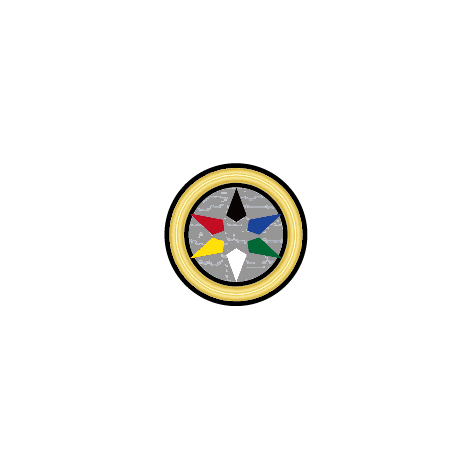
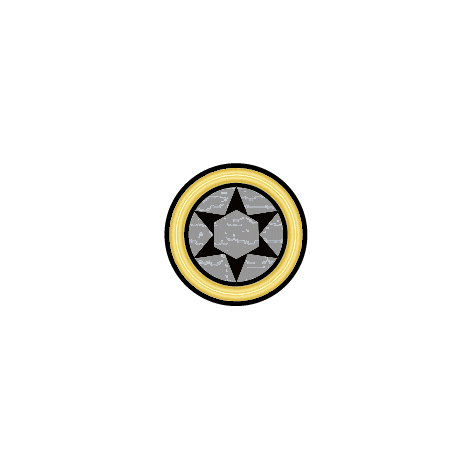
beta5 無色アイコンの修正 永続スペルアイコンの追加

Changed region(s): [[0.3864, 0.417, 0.5945, 0.5957]]

diff --git a/AsteriskTCGMaker2/AsteriskTCGMaker3/Views/MainWindow.xaml b/AsteriskTCGMaker2/AsteriskTCGMaker3/Views/MainWindow.xaml
@@ -151,7 +151,7 @@
                 <TextBlock x:Name="StatusText"  Text="{Binding StatusText, UpdateSourceTrigger=PropertyChanged}" />
             </StatusBarItem>
             <StatusBarItem DockPanel.Dock="Right">
-                <TextBlock Text="ver3.00β4" />
+                <TextBlock Text="ver3.00β5" />
             </StatusBarItem>
             <Separator DockPanel.Dock="Right" />
             <TextBlock />
@@ -211,11 +211,12 @@
                         </StackPanel>
 
 
-                        <StackPanel   Panel.ZIndex="15" Canvas.Left="17" Canvas.Bottom="135" Height="120" Width="30">
+                        <StackPanel   Panel.ZIndex="15" Canvas.Left="17" Canvas.Bottom="111" Height="144" Width="30">
                             <Image  x:Name="CardTypeImage1" Stretch="Fill" Source="Resources/burst.png"  Width="24" Margin="1,1,1,1" Visibility="{Binding SelectedCard.Burst, Converter={StaticResource BoolVisibillityConverter}}"/>
                             <Image  x:Name="CardTypeImage2" Stretch="Fill" Source="Resources/re-action.png"  Width="24" Margin="1,1,1,1" Visibility="{Binding SelectedCard.ReAction, Converter={StaticResource BoolVisibillityConverter}}"/>
                             <Image  x:Name="CardTypeImage3" Stretch="Fill" Source="Resources/sealedtrigger.png"  Width="24" Margin="1,1,1,1" Visibility="{Binding SelectedCard.SealedTrigger, Converter={StaticResource BoolVisibillityConverter}}"/>
                             <Image  x:Name="CardTypeImage4" Stretch="Fill" Source="Resources/spellstep.png"  Width="24" Margin="1,1,1,1" Visibility="{Binding SelectedCard.SpellStep, Converter={StaticResource BoolVisibillityConverter}}"/>
+                            <Image  x:Name="CardTypeImage5" Stretch="Fill" Source="Resources/keep.png"  Width="24" Margin="1,1,1,1" Visibility="{Binding SelectedCard.KeepSpell, Converter={StaticResource BoolVisibillityConverter}}"/>
                         </StackPanel>
 
                         <TextBox x:Name="CardRubyText" Text="{Binding SelectedCard.CardRuby}" Style="{StaticResource CardRubyTextStyle}"  Panel.ZIndex="100"
@@ -299,7 +300,7 @@
                         <RowDefinition Height="20"/>
                         <RowDefinition Height="20"/>
                         <RowDefinition Height="20"/>
-                        <RowDefinition Height="100"/>
+                        <RowDefinition Height="80"/>
                         <RowDefinition Height="20"/>
                         <RowDefinition Height="20"/>
                         <RowDefinition Height="40"/>
@@ -314,7 +315,7 @@
                         <RowDefinition Height="20"/>
                         <RowDefinition Height="20"/>
                         <RowDefinition Height="20"/>
-                        <RowDefinition Height="20"/>
+                        <RowDefinition Height="40"/>
                         <RowDefinition Height="20"/>
                         <RowDefinition Height="*"/>
                     </Grid.RowDefinitions>
@@ -455,6 +456,7 @@
                             <Grid.RowDefinitions>
                                 <RowDefinition/>
                                 <RowDefinition/>
+                                <RowDefinition/>
                             </Grid.RowDefinitions>
                             <Grid.ColumnDefinitions>
                                 <ColumnDefinition/>
@@ -464,6 +466,7 @@
                             <CheckBox x:Name="reAction"  Content="リアクション"  Grid.Row="0" Grid.Column="1" IsChecked="{Binding  SelectedCard.ReAction}"/>
                             <CheckBox x:Name="sealdtrigger"  Content="ダメージトリガー"  Grid.Row="1" Grid.Column="0"  IsChecked="{Binding  SelectedCard.SealedTrigger}"/>
                             <CheckBox  x:Name="spellstep" Content="スペルステップ"  Grid.Row="1" Grid.Column="1" IsChecked="{Binding  SelectedCard.SpellStep}"/>
+                            <CheckBox  x:Name="keepspell" Content="永続スペル"  Grid.Row="2" Grid.Column="0" IsChecked="{Binding  SelectedCard.KeepSpell}"/>
                         </Grid>
 
                     </StackPanel>

diff --git a/AsteriskTCGMaker2/AsteriskTCGMaker3/ViewModels/MainWindowViewModel.cs b/AsteriskTCGMaker2/AsteriskTCGMaker3/ViewModels/MainWindowViewModel.cs
@@ -404,7 +404,7 @@ namespace AsteriskTCGMaker3.ViewModels
                     {
                         _cardList.Add(new CardData(fileName));
                     }
-                    catch(Exception e)
+                    catch (Exception e)
                     {
 
                     }
@@ -584,6 +584,7 @@ namespace AsteriskTCGMaker3.ViewModels
             var text = "";
             if (WithInf)
             {
+                text += ";" + SelectedCard.Version.ToString();
                 text += ";" + SelectedCard.RubyFontSize.ToString();
                 text += ";" + SelectedCard.CardNameFontSize.ToString();
                 text += ";" + SelectedCard.EffectFontSize.ToString();
@@ -594,6 +595,7 @@ namespace AsteriskTCGMaker3.ViewModels
                 text += ";" + SelectedCard.ReAction.ToString();
                 text += ";" + SelectedCard.SealedTrigger.ToString();
                 text += ";" + SelectedCard.SpellStep.ToString();
+                text += ";" + SelectedCard.KeepSpell.ToString();
                 text += ";" + "\r\n";
                 text += ";" + SelectedCard.RubyColor.ToString();
                 text += ";" + SelectedCard.NameColor.ToString();
@@ -1121,6 +1123,7 @@ namespace AsteriskTCGMaker3.ViewModels
         public string Illustration { get; set; }
 
         //内部データ
+        public int Version { get; set; } = 3004;
         public string CardRuby { get; set; } = "";
         public double EffectFontSize { get; set; } = 8;
         public double FlavorFontSize { get; set; } = 6;
@@ -1128,6 +1131,7 @@ namespace AsteriskTCGMaker3.ViewModels
         public bool ReAction { get; set; }
         public bool SealedTrigger { get; set; }
         public bool SpellStep { get; set; }
+        public bool KeepSpell { get; set; }
         public double TextBoxSize { get; set; } = 50;
         public bool Beta { get; set; } = false;
         public string ImageSource { get; set; }
@@ -1262,6 +1266,8 @@ namespace AsteriskTCGMaker3.ViewModels
             Illustration:イラスト
              */
 
+            Version = int.Parse(getNextElement(WikiData));
+            WikiData = WikiData.Substring(WikiData.IndexOf(";", 1), WikiData.Length - (WikiData.IndexOf(";", 1)));
             RubyFontSize = double.Parse(getNextElement(WikiData));
             WikiData = WikiData.Substring(WikiData.IndexOf(";", 1), WikiData.Length - (WikiData.IndexOf(";", 1)));
             CardNameFontSize = double.Parse(getNextElement(WikiData));
@@ -1282,6 +1288,8 @@ namespace AsteriskTCGMaker3.ViewModels
             SealedTrigger = bool.Parse(getNextElement(WikiData));
             WikiData = WikiData.Substring(WikiData.IndexOf(";", 1), WikiData.Length - (WikiData.IndexOf(";", 1)));
             SpellStep = bool.Parse(getNextElement(WikiData));
+            WikiData = WikiData.Substring(WikiData.IndexOf(";", 1), WikiData.Length - (WikiData.IndexOf(";", 1)));
+            KeepSpell = bool.Parse(getNextElement(WikiData));
             WikiData = WikiData.Substring(WikiData.IndexOf("\r\n") + 2, WikiData.Length - (WikiData.IndexOf("\r\n") + 2));
 
             RubyColor = getNextElement(WikiData);

diff --git a/AsteriskTCGMaker2/AsteriskTCGMaker3/Views/MainWindow.xaml.cs b/AsteriskTCGMaker2/AsteriskTCGMaker3/Views/MainWindow.xaml.cs
@@ -50,6 +50,7 @@ namespace AsteriskTCGMaker3.Views
             CardTypeImage2.Source = new BitmapImage(new Uri(path + "Resources/re-action.png", UriKind.Absolute));
             CardTypeImage3.Source = new BitmapImage(new Uri(path + "Resources/sealedtrigger.png", UriKind.Absolute));
             CardTypeImage4.Source = new BitmapImage(new Uri(path + "Resources/spellstep.png", UriKind.Absolute));
+            CardTypeImage5.Source = new BitmapImage(new Uri(path + "Resources/keep.png", UriKind.Absolute));
         }
 
         //指定要素を画像として保存する

diff --git a/README.md b/README.md
@@ -1,7 +1,7 @@
 # AsteriskTCGMaker
 
 ## 更新履歴
-### 2020/7/25 ver3.00β4を公開（大型アップデート）
+### 2020/7/25 ver3.00β5を公開（大型アップデート）
  - プロジェクト管理機能を実装
  - 正確にデザインを統一
  - サムネイル画像の保存処理を実装
@@ -30,6 +30,8 @@
  - □のサイズ感を調整
  - ルビのデフォルトを空欄に変更
  - 左のリストを色>カードタイプ>コスト高い順>パワーでソートする仕様に
+ - 無色アイコンを最新版に修正
+ - 永続スペルアイコンを追加
 
  ![アスタリスクTCGメーカー3.00](images/3_00.png)
  
